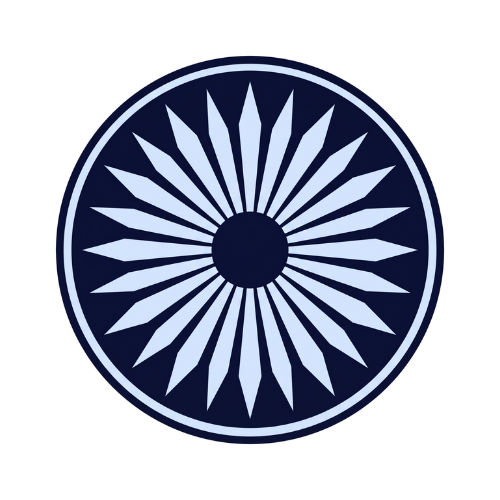
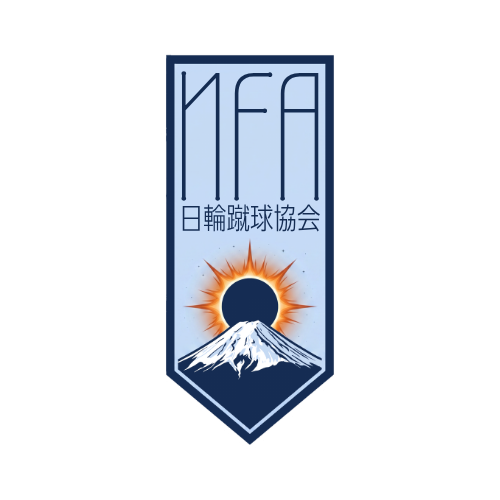
Overhaul player match rating system to reduce 10.0 inflation
- goalCtxMult now values goals by game effect: equalizers (×1.4) and
  go-ahead goals (×1.2) reward more than padding (×0.35-0.7), with a
  late-game amplifier (×1.3 after 85')
- Add goalPosMult: DEF ×1.3, MID ×1.1, GK ×1.5, FWD ×1.0 — applied
  to all open-play goals in both live match and instasim
- Periodic rating tick now uses marginal stats only (new saves/defActs/
  chances since last tick), not cumulative totals re-counted 18× per match
- Threshold bonuses (DEF 3+ defActs, MID 3+ chances) fire once via flags
- Reduce periodic tick and end-of-match bonus magnitudes for chances and
  defensive contributions
- Remove per-tick FWD bonus for having scored (already rewarded by goal event)

diff --git a/src/App.tsx b/src/App.tsx
@@ -372,7 +372,7 @@ function lmResolveCorner(s, rng, dm, atk, def, atkE, defE, nm) {
   if(s.xG) s.xG[atk] = (s.xG[atk]||0) + cGoalP;
   if (r < cGoalP) {
     s.score[atk === "home" ? 0 : 1]++; s.stats[atk].shots++; s.stats[atk].onTarget++; if(s.goalscorers)s.goalscorers[atk].push({name:scorer.name,min:dm,method:"header"});
-    scorer.goals++;let _astCrn;{const ti=atk==="home"?0:1,gCtx=goalCtxMult([s.score[0]-(ti===0?1:0),s.score[1]-(ti===1?1:0)],ti),aCtx=1+(gCtx-1)*0.5;scorer.rating=Math.min(10,+(scorer.rating+goalAtkMult(scorer.atkW)*gCtx).toFixed(2));_astCrn=assistPlayer(rng,s.players[atk],scorer.name,0);if(_astCrn)_astCrn.rating=Math.max(3,Math.min(10,+(_astCrn.rating+0.6*assistAtkMult(_astCrn.atkW)*aCtx).toFixed(2)));}
+    scorer.goals++;let _astCrn;{const ti=atk==="home"?0:1,gCtx=goalCtxMult([s.score[0]-(ti===0?1:0),s.score[1]-(ti===1?1:0)],ti,dm),aCtx=1+(gCtx-1)*0.5;scorer.rating=Math.min(10,+(scorer.rating+goalAtkMult(scorer.atkW)*gCtx*goalPosMult(scorer.pos)).toFixed(2));_astCrn=assistPlayer(rng,s.players[atk],scorer.name,0);if(_astCrn)_astCrn.rating=Math.max(3,Math.min(10,+(_astCrn.rating+0.6*assistAtkMult(_astCrn.atkW)*aCtx).toFixed(2)));}
     {const _t=goalText(rng,"corner_goal_desc",s,nm,scorer,_astCrn),_g=genGoalViz(rng,"corner",scorer.name,_astCrn?_astCrn.name:null);gvSync(_t,_g);s.events.push({min:dm, type:"goal", team:atk, text:"\u26BD "+_t, goalViz:_g});}
     s.ball = 2; s.pressure = 0; s.possession = def; s.stoppageBank += 45; s.momentum[atk] = 4;
   } else if (r < (0.10 + cGkBonus) * sm) {
@@ -433,7 +433,7 @@ function lmResolveShot(s, rng, dm, atk, def, atkE, defE, nm, method) {
     const isDeflection = rng.u() < 0.08;
     const finalMethod = isDeflection ? "deflection" : (method||null);
     s.score[atk==="home"?0:1]++; s.stats[atk].onTarget++; if(s.goalscorers)s.goalscorers[atk].push({name:shooter.name,min:dm,method:finalMethod});
-    shooter.goals++;let _ast;{const ti=atk==="home"?0:1,gCtx=goalCtxMult([s.score[0]-(ti===0?1:0),s.score[1]-(ti===1?1:0)],ti),aCtx=1+(gCtx-1)*0.5;shooter.rating=Math.min(10,+(shooter.rating+goalAtkMult(shooter.atkW)*gCtx).toFixed(2));_ast=assistPlayer(rng,s.players[atk],shooter.name,0);if(_ast)_ast.rating=Math.max(3,Math.min(10,+(_ast.rating+0.6*assistAtkMult(_ast.atkW)*aCtx).toFixed(2)));}
+    shooter.goals++;let _ast;{const ti=atk==="home"?0:1,gCtx=goalCtxMult([s.score[0]-(ti===0?1:0),s.score[1]-(ti===1?1:0)],ti,dm),aCtx=1+(gCtx-1)*0.5;shooter.rating=Math.min(10,+(shooter.rating+goalAtkMult(shooter.atkW)*gCtx*goalPosMult(shooter.pos)).toFixed(2));_ast=assistPlayer(rng,s.players[atk],shooter.name,0);if(_ast)_ast.rating=Math.max(3,Math.min(10,+(_ast.rating+0.6*assistAtkMult(_ast.atkW)*aCtx).toFixed(2)));}
     s.players[def].forEach(p=>{if(p.pos==="GK")p.rating=Math.max(3,+(p.rating-0.15).toFixed(2));else if(p.pos==="DEF")p.rating=Math.max(3,+(p.rating-0.08).toFixed(2));});
     {const _t=goalText(rng,isDeflection?"deflection_desc":"goal_desc",s,nm,shooter,_ast),_g=genGoalViz(rng,finalMethod,shooter.name,_ast?_ast.name:null);gvSync(_t,_g);s.events.push({min:dm,type:"goal",team:atk,text:"\u26BD "+_t,goalViz:_g});}
     s.ball=2;s.pressure=0;s.possession=def;s.stoppageBank+=45;s.momentum[atk]=4;
@@ -443,7 +443,7 @@ function lmResolveShot(s, rng, dm, atk, def, atkE, defE, nm, method) {
     if (gkErrRoll < 0.012) {
       // GK error → goal
       s.score[atk==="home"?0:1]++; s.stats[atk].onTarget++; if(s.goalscorers)s.goalscorers[atk].push({name:shooter.name,min:dm,method:"gk-error"});
-      shooter.goals++;let _astGk;{const ti=atk==="home"?0:1,gCtx=goalCtxMult([s.score[0]-(ti===0?1:0),s.score[1]-(ti===1?1:0)],ti),aCtx=1+(gCtx-1)*0.5;shooter.rating=Math.min(10,+(shooter.rating+goalAtkMult(shooter.atkW)*gCtx).toFixed(2));_astGk=assistPlayer(rng,s.players[atk],shooter.name,0);if(_astGk)_astGk.rating=Math.max(3,Math.min(10,+(_astGk.rating+0.6*assistAtkMult(_astGk.atkW)*aCtx).toFixed(2)));}
+      shooter.goals++;let _astGk;{const ti=atk==="home"?0:1,gCtx=goalCtxMult([s.score[0]-(ti===0?1:0),s.score[1]-(ti===1?1:0)],ti,dm),aCtx=1+(gCtx-1)*0.5;shooter.rating=Math.min(10,+(shooter.rating+goalAtkMult(shooter.atkW)*gCtx*goalPosMult(shooter.pos)).toFixed(2));_astGk=assistPlayer(rng,s.players[atk],shooter.name,0);if(_astGk)_astGk.rating=Math.max(3,Math.min(10,+(_astGk.rating+0.6*assistAtkMult(_astGk.atkW)*aCtx).toFixed(2)));}
       const gk=s.players[def].find(p=>p.pos==="GK");if(gk)gk.rating=Math.max(3,+(gk.rating-0.8).toFixed(1));
       s.players[def].forEach(p=>{if(p.pos==="DEF")p.rating=Math.max(3,+(p.rating-0.08).toFixed(1));});
       {const _t=goalText(rng,"gk_error_desc",s,nm,shooter,_astGk),_g=genGoalViz(rng,"gk-error",shooter.name,_astGk?_astGk.name:null);gvSync(_t,_g);s.events.push({min:dm,type:"goal",team:atk,text:"\u26BD "+_t,goalViz:_g});}
@@ -659,7 +659,7 @@ function lmSimMinute(s, rng, home, away) {
     const lrScorer=pickPlayer(rng,s.players[po].filter(p=>p.pos!=="GK"),"longGoal");lrScorer.chances=(lrScorer.chances||0)+1;const lrGoal=0.05*Math.pow(poE/opE,0.5)*TIER_CONV[lrScorer.tier||0],lrSave=0.23;
     if(s.xG) s.xG[po] = (s.xG[po]||0) + lrGoal;
     const lr=rng.u();
-    if(lr<lrGoal){s.score[po==="home"?0:1]++;s.stats[po].onTarget++;s.goalscorers[po].push({name:lrScorer.name,min:dm,method:"long-range"});lrScorer.goals++;let _astLr;{const ti=po==="home"?0:1,gCtx=goalCtxMult([s.score[0]-(ti===0?1:0),s.score[1]-(ti===1?1:0)],ti),aCtx=1+(gCtx-1)*0.5;lrScorer.rating=Math.min(10,+(lrScorer.rating+goalAtkMult(lrScorer.atkW)*gCtx).toFixed(2));_astLr=assistPlayer(rng,s.players[po],lrScorer.name,0);if(_astLr)_astLr.rating=Math.max(3,Math.min(10,+(_astLr.rating+0.6*assistAtkMult(_astLr.atkW)*aCtx).toFixed(2)));}{const _t=goalText(rng,"goal_lr_desc",s,nm,lrScorer,_astLr),_g=genGoalViz(rng,"long-range",lrScorer.name,_astLr?_astLr.name:null);gvSync(_t,_g);s.events.push({min:dm,type:"goal",team:po,text:"\u26BD "+_t,goalViz:_g});}s.ball=2;s.pressure=0;s.possession=op;s.stoppageBank+=45;s.momentum[po]=4;}
+    if(lr<lrGoal){s.score[po==="home"?0:1]++;s.stats[po].onTarget++;s.goalscorers[po].push({name:lrScorer.name,min:dm,method:"long-range"});lrScorer.goals++;let _astLr;{const ti=po==="home"?0:1,gCtx=goalCtxMult([s.score[0]-(ti===0?1:0),s.score[1]-(ti===1?1:0)],ti,dm),aCtx=1+(gCtx-1)*0.5;lrScorer.rating=Math.min(10,+(lrScorer.rating+goalAtkMult(lrScorer.atkW)*gCtx*goalPosMult(lrScorer.pos)).toFixed(2));_astLr=assistPlayer(rng,s.players[po],lrScorer.name,0);if(_astLr)_astLr.rating=Math.max(3,Math.min(10,+(_astLr.rating+0.6*assistAtkMult(_astLr.atkW)*aCtx).toFixed(2)));}{const _t=goalText(rng,"goal_lr_desc",s,nm,lrScorer,_astLr),_g=genGoalViz(rng,"long-range",lrScorer.name,_astLr?_astLr.name:null);gvSync(_t,_g);s.events.push({min:dm,type:"goal",team:po,text:"\u26BD "+_t,goalViz:_g});}s.ball=2;s.pressure=0;s.possession=op;s.stoppageBank+=45;s.momentum[po]=4;}
     else if(lr<lrGoal+lrSave){s.stats[po].onTarget++;ratePlayer(s.players[po],lrScorer.name,0.1);{const gk=s.players[op].find(p=>p.pos==="GK");if(gk){gk.rating=Math.min(10,+(gk.rating+0.15).toFixed(2));gk.saves=(gk.saves||0)+1;}}s.events.push({min:dm,type:"save",team:po,text:"\uD83E\uDDE4 "+comm(rng,"save_lr",{t:nm[po],o:nm[op],n:lrScorer.name},s)});if(rng.u()<0.40){s.stats[po].corners++;s.events.push({min:dm,type:"corner",team:po,text:"\uD83C\uDFF4 "+comm(rng,"corner_won",{t:nm[po],o:nm[op]},s)});lmResolveCorner(s,rng,dm,po,op,poE,opE,nm);}}
     else{s.events.push({min:dm,type:"miss",team:po,text:"\uD83D\uDCA8 "+comm(rng,"miss_lr",{t:nm[po],n:lrScorer.name},s)});if(rng.u()<0.25){s.stats[po].corners++;s.events.push({min:dm,type:"corner",team:po,text:"\uD83C\uDFF4 "+comm(rng,"corner_won",{t:nm[po],o:nm[op]},s)});lmResolveCorner(s,rng,dm,po,op,poE,opE,nm);}}
     return;
@@ -825,29 +825,27 @@ function lmSimMinute(s, rng, home, away) {
       const gfScored = side === "home" ? s.score[0] : s.score[1];
       s.players[side].forEach(p => {
         if (p.pos === "GK") {
-          const sv = p.saves || 0;
-          if (sv > 0) p.rating = Math.min(10, +(p.rating + 0.02).toFixed(2));
-          if (sv >= 3) p.rating = Math.min(10, +(p.rating + 0.01).toFixed(2));
+          const sv = (p.saves||0) - (p._rSv||0); p._rSv = p.saves||0;
+          if (sv > 0) p.rating = Math.min(10, +(p.rating + 0.02 * sv).toFixed(2));
           if (gaConceded === 0 && s.minute >= 30) p.rating = Math.min(10, +(p.rating + 0.015).toFixed(2));
-          if (sv === 0 && pct > 0.58 && s.stats[op].shots < s.minute/12) p.rating = Math.max(3, +(p.rating - 0.01).toFixed(2));
+          if ((p.saves||0) === 0 && pct > 0.58 && s.stats[op].shots < s.minute/12) p.rating = Math.max(3, +(p.rating - 0.01).toFixed(2));
         }
         if (p.pos === "DEF") {
-          const da = p.defActs || 0;
-          if (da > 0) p.rating = Math.min(10, +(p.rating + 0.03 * Math.min(da, 5)).toFixed(2));
-          if (da >= 3 && gaConceded <= 1) p.rating = Math.min(10, +(p.rating + 0.04).toFixed(2));
+          const da = (p.defActs||0) - (p._rDa||0); p._rDa = p.defActs||0;
+          if (da > 0) p.rating = Math.min(10, +(p.rating + 0.02 * da).toFixed(2));
+          if (!p._rDaT && (p.defActs||0) >= 3 && gaConceded <= 1) { p._rDaT = true; p.rating = Math.min(10, +(p.rating + 0.1).toFixed(2)); }
           if (s.stats[op].onTarget > s.minute / 10) p.rating = Math.max(3, +(p.rating - 0.02).toFixed(2));
         }
         if (p.pos === "MID") {
-          const ch = p.chances || 0;
-          if (ch > 0) p.rating = Math.min(10, +(p.rating + 0.01 * Math.min(ch, 4)).toFixed(2));
-          if (ch >= 3 && gfScored > 0) p.rating = Math.min(10, +(p.rating + 0.03).toFixed(2));
-          if (ch === 0 && s.minute >= 40) p.rating = Math.max(3, +(p.rating - 0.01).toFixed(2));
+          const ch = (p.chances||0) - (p._rCh||0); p._rCh = p.chances||0;
+          if (ch > 0) p.rating = Math.min(10, +(p.rating + 0.015 * ch).toFixed(2));
+          if (!p._rChT && (p.chances||0) >= 3 && gfScored > 0) { p._rChT = true; p.rating = Math.min(10, +(p.rating + 0.08).toFixed(2)); }
+          if ((p.chances||0) === 0 && s.minute >= 40) p.rating = Math.max(3, +(p.rating - 0.01).toFixed(2));
         }
         if (p.pos === "FWD") {
-          const ch = p.chances || 0;
-          if (p.goals > 0 || p.assists > 0) p.rating = Math.min(10, +(p.rating + 0.01).toFixed(2));
-          if (ch >= 2) p.rating = Math.min(10, +(p.rating + 0.02).toFixed(2));
-          if (s.minute >= 50 && p.goals === 0 && p.assists === 0 && ch === 0 && p.rating <= 6.7) p.rating = Math.max(3, +(p.rating - 0.04).toFixed(2));
+          const ch = (p.chances||0) - (p._rCh||0); p._rCh = p.chances||0;
+          if (ch > 0) p.rating = Math.min(10, +(p.rating + 0.015 * ch).toFixed(2));
+          if (s.minute >= 50 && p.goals === 0 && p.assists === 0 && (p.chances||0) === 0 && p.rating <= 6.7) p.rating = Math.max(3, +(p.rating - 0.04).toFixed(2));
         }
       });
       // Individual involvement bonus: random player from possession team gets credit
@@ -901,7 +899,7 @@ function resolvePendingPenalty(s, rng, home, away) {
     else{s.possession=op;s.pressure=0;}
   }else{
     s.score[po==="home"?0:1]++;s.stats[po].shots++;s.stats[po].onTarget++;
-    if(s.goalscorers)s.goalscorers[po].push({name:taker.name,min:dm,method:"pen"});taker.goals++;{const ti=po==="home"?0:1,gCtx=goalCtxMult([s.score[0]-(ti===0?1:0),s.score[1]-(ti===1?1:0)],ti);taker.rating=Math.min(10,+(taker.rating+goalAtkMult(taker.atkW)*gCtx).toFixed(2));}
+    if(s.goalscorers)s.goalscorers[po].push({name:taker.name,min:dm,method:"pen"});taker.goals++;{const ti=po==="home"?0:1,gCtx=goalCtxMult([s.score[0]-(ti===0?1:0),s.score[1]-(ti===1?1:0)],ti,dm);taker.rating=Math.min(10,+(taker.rating+goalAtkMult(taker.atkW)*gCtx).toFixed(2));}
     s.players[op].forEach(p=>{if(p.pos==="GK")p.rating=Math.max(3,+(p.rating-0.1).toFixed(1));else if(p.pos==="DEF")p.rating=Math.max(3,+(p.rating-0.05).toFixed(1));});
     {const _t=goalText(rng,"pen_scored_desc",s,nm,taker,null),_g=genGoalViz(rng,"pen",taker.name,null,zone2,dive2);gvSync(_t,_g);s.events.push({min:dm,type:"goal",team:po,text:"\u26BD "+_t,goalViz:_g});}
     s.ball=2;s.pressure=0;s.possession=op;s.stoppageBank+=45;s.momentum[po]=4;
@@ -958,10 +956,10 @@ function lmAdvance(prev, rng, home, away, mutate) {
       const cs = (side === "home" ? s.score[1] : s.score[0]) === 0;
       s.players[side].forEach(p => {
         let b = 0;
-        if (p.pos === "GK") b = Math.min(1.0, 0.05 * (p.saves || 0) + (cs ? 0.3 : 0));
-        else if (p.pos === "DEF") b = Math.min(1.0, 0.12 * Math.min(p.defActs || 0, 6) + (cs ? 0.2 : 0));
-        else if (p.pos === "MID") b = Math.min(0.8, 0.10 * Math.min(p.chances || 0, 5));
-        else if (p.pos === "FWD") b = Math.min(0.5, 0.06 * Math.min(p.chances || 0, 4));
+        if (p.pos === "GK") b = Math.min(0.6, 0.04 * (p.saves || 0) + (cs ? 0.2 : 0));
+        else if (p.pos === "DEF") b = Math.min(0.5, 0.06 * Math.min(p.defActs || 0, 6) + (cs ? 0.15 : 0));
+        else if (p.pos === "MID") b = Math.min(0.4, 0.05 * Math.min(p.chances || 0, 5));
+        else if (p.pos === "FWD") b = Math.min(0.25, 0.04 * Math.min(p.chances || 0, 4));
         if (b > 0) p.rating = Math.min(10, +(p.rating + b).toFixed(2));
       });
     }
@@ -1889,8 +1887,10 @@ function ratePlayer(players, name, delta) {
 }
 const ratingColor = (r) => r >= 9 ? "#4a90d9" : r >= 8 ? "#5bbcd6" : r >= 7 ? "#4caf50" : r >= 6.5 ? "#e6c619" : r >= 6 ? "#e89a3c" : r >= 5 ? "#d55b4a" : "#cc3333";
 const goalAtkMult = (atkW) => 0.75 + 0.5 * Math.pow(1 - Math.min(atkW||0, 50)/50, 1.5);
+const goalPosMult = (pos) => pos === "GK" ? 1.5 : pos === "DEF" ? 1.3 : pos === "MID" ? 1.1 : 1.0;
 const assistAtkMult = (atkW) => 0.95 + 0.25 * Math.pow(1 - Math.min(atkW||0, 50)/50, 2);
-const goalCtxMult = (score, ti) => { const us=score[ti],them=score[1-ti],d=us-them; if(us===0&&them===0)return 1.15; if(d===-1)return 1.2; if(d===0)return 1.15; if(d>0)return Math.max(0.8,1.1-d*0.1); return 0.9; };
+// d = pre-goal difference (us-them). Positive = leading, negative = trailing.
+const goalCtxMult = (score, ti, min) => { const us=score[ti],them=score[1-ti],d=us-them; let b; if(us===0&&them===0)b=1.0; else if(d===-1)b=1.4; else if(d===0)b=1.2; else if(d===1)b=0.7; else if(d>1)b=Math.max(0.35,0.6-(d-1)*0.15); else if(d===-2)b=0.85; else b=Math.max(0.35,0.55+(d+1)*0.1); return b*(min>=85?1.3:min>=75?1.15:min>=60?1.05:1.0); };
 function assistPlayer(rng, players, scorer, delta) {
   const others = players.filter(p => p.name !== scorer && p.pos !== "GK");
   if (others.length === 0) return null;
@@ -3119,7 +3119,7 @@ export default function App() {
       rtg += (rng2.u() - 0.4) * 1.0;
       const gCount = scorers.filter(n => n === p.name).length;
       const aCount = assisters.filter(n => n === p.name).length;
-      rtg += gCount * goalAtkMult(p.atkW) + aCount * 0.4 * assistAtkMult(p.atkW);
+      rtg += gCount * goalAtkMult(p.atkW) * goalPosMult(p.pos) + aCount * 0.4 * assistAtkMult(p.atkW);
       if (goalsAgainst > 0 && p.pos === "GK") rtg -= goalsAgainst * 0.035;
       if (goalsAgainst > 0 && p.pos === "DEF") rtg -= goalsAgainst * 0.02;
       playerRtgs[p.name] = { rtg: Math.max(3, Math.min(10, rtg)), gCount, aCount };
@@ -3129,7 +3129,7 @@ export default function App() {
       rtg += (rng2.u() - 0.4) * 0.8;
       const gCount = scorers.filter(n => n === p.name).length;
       const aCount = assisters.filter(n => n === p.name).length;
-      rtg += gCount * 1.2 * goalAtkMult(p.atkW) + aCount * 0.5 * assistAtkMult(p.atkW);
+      rtg += gCount * 1.2 * goalAtkMult(p.atkW) * goalPosMult(p.pos) + aCount * 0.5 * assistAtkMult(p.atkW);
       if (goalsAgainst > 0 && p.pos === "GK") rtg -= goalsAgainst * 0.035;
       if (goalsAgainst > 0 && p.pos === "DEF") rtg -= goalsAgainst * 0.02;
       playerRtgs[p.name] = { rtg: Math.max(3, Math.min(10, rtg)), gCount, aCount };